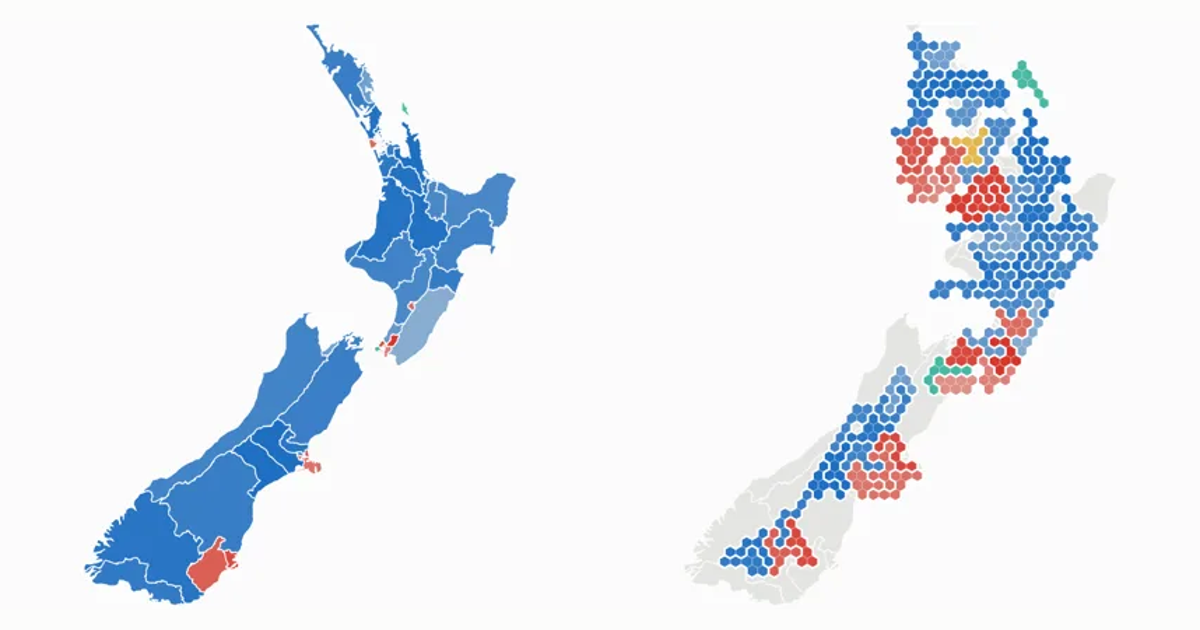
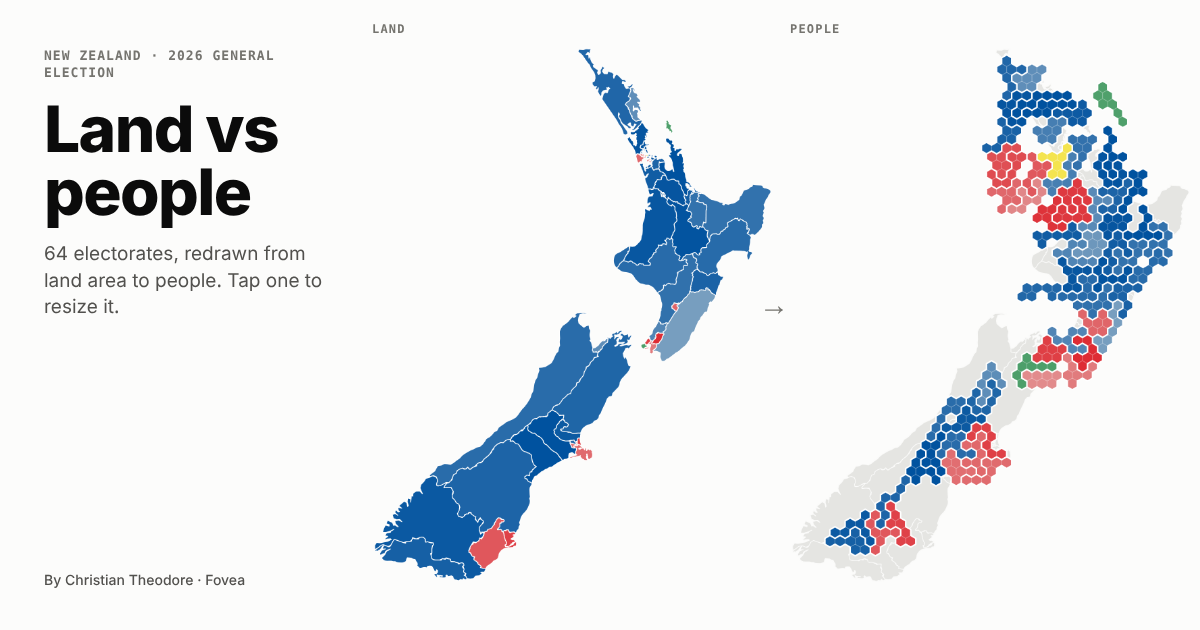
NZ: new share previews (Land to People side by side, with title and byline); Māori page gets its own
Claude-Session: https://claude.ai/code/session_015LcVinENNTMFTEexkzFZqZ

diff --git a/new-zealand/maori/index.html b/new-zealand/maori/index.html
@@ -1,11 +1,11 @@
 <!doctype html><html lang="en"><head><meta charset="utf-8"><meta name="viewport" content="width=device-width,initial-scale=1,viewport-fit=cover"><title>New Zealand 2026: Māori electorates, land vs people</title>
 <!--og-->
-<meta name="description" content="2026 general election (preliminary). Tap an electorate to resize it from land area to population.">
+<meta name="description" content="2026 election (preliminary). Tap one of the 7 Māori electorates to resize it from land area to population.">
 <meta property="og:type" content="website"><meta property="og:site_name" content="Land vs people">
-<meta property="og:title" content="New Zealand: land vs people"><meta property="og:description" content="2026 general election (preliminary). Tap an electorate to resize it from land area to population.">
-<meta property="og:url" content="https://christhchild28.github.io/election-land-vs-people/new-zealand/"><meta property="og:image" content="https://christhchild28.github.io/election-land-vs-people/assets/og/new-zealand.png">
-<meta property="og:image:width" content="1200"><meta property="og:image:height" content="630"><meta property="og:image:alt" content="New Zealand: land vs people: real map beside the same map resized by voters">
-<meta name="twitter:card" content="summary_large_image"><meta name="twitter:title" content="New Zealand: land vs people"><meta name="twitter:description" content="2026 general election (preliminary). Tap an electorate to resize it from land area to population."><meta name="twitter:image" content="https://christhchild28.github.io/election-land-vs-people/assets/og/new-zealand.png">
+<meta property="og:title" content="New Zealand Māori electorates: land vs people"><meta property="og:description" content="2026 election (preliminary). Tap one of the 7 Māori electorates to resize it from land area to population.">
+<meta property="og:url" content="https://christhchild28.github.io/election-land-vs-people/new-zealand/maori/"><meta property="og:image" content="https://christhchild28.github.io/election-land-vs-people/assets/og/new-zealand-maori.png">
+<meta property="og:image:width" content="1200"><meta property="og:image:height" content="630"><meta property="og:image:alt" content="New Zealand Māori electorates: land vs people: real map beside the same map resized by voters">
+<meta name="twitter:card" content="summary_large_image"><meta name="twitter:title" content="New Zealand Māori electorates: land vs people"><meta name="twitter:description" content="2026 election (preliminary). Tap one of the 7 Māori electorates to resize it from land area to population."><meta name="twitter:image" content="https://christhchild28.github.io/election-land-vs-people/assets/og/new-zealand-maori.png">
 <!--/og-->
 <script data-goatcounter="https://nz-election2026.goatcounter.com/count" async src="//gc.zgo.at/count.js"></script>
 <link rel="preconnect" href="https://fonts.googleapis.com">

diff --git a/scripts/og_inject.py b/scripts/og_inject.py
@@ -1,5 +1,5 @@
 """Insert social-preview (Open Graph / Twitter) tags after the <title>. Idempotent.
-usage: python3 og_inject.py <html file> <key>   (key: landing|usa|brazil|bulgaria|new-zealand|trinidad-tobago)"""
+usage: python3 og_inject.py <html file> <key>   (key: landing|usa|brazil|bulgaria|new-zealand|new-zealand-maori|trinidad-tobago)"""
 import re,sys
 BASE='https://christhchild28.github.io/election-land-vs-people/'
 M={'landing':('Land vs people','Election cartograms that morph from real land area to share of voters: US, Brazil, Bulgaria, New Zealand, Trinidad and Tobago.',''),
@@ -7,6 +7,7 @@ M={'landing':('Land vs people','Election cartograms that morph from real land ar
  'brazil':('Brazil: land vs people','2026 presidential runoff. Tap a state to resize it from land area to registered voters.','brazil/'),
  'bulgaria':('Bulgaria: land vs people','April 2026 parliamentary election. Tap a province to resize it from land area to registered voters.','bulgaria/'),
  'new-zealand':('New Zealand: land vs people','2026 general election (preliminary). Tap an electorate to resize it from land area to population.','new-zealand/'),
+ 'new-zealand-maori':('New Zealand Māori electorates: land vs people','2026 election (preliminary). Tap one of the 7 Māori electorates to resize it from land area to population.','new-zealand/maori/'),
  'trinidad-tobago':('Trinidad and Tobago: land vs people','2025 general election. Tap a seat to resize it from land area to population.','trinidad-tobago/')}
 f,k=sys.argv[1],sys.argv[2];t,d,p=M[k]
 h=open(f,encoding='utf-8').read()
